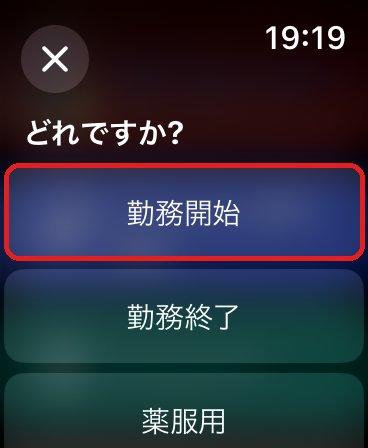
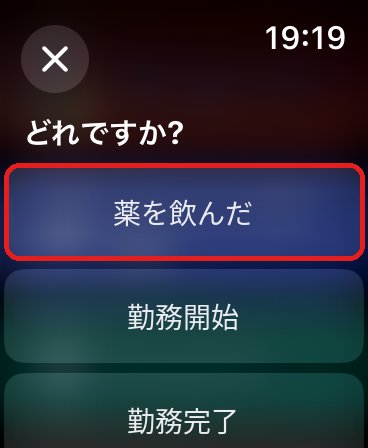
Apple Watch ページ: 「選択肢から記録」を優先表示にし、実物の画面とリンクを反映

Changed region(s): [[0.3288, 0.6562, 0.6576, 0.75], [0.2989, 0.4375, 0.6875, 0.5312], [0.3288, 0.9062, 0.6576, 0.9688]]

diff --git a/timestampApp/jp/tips/watch_record.html b/timestampApp/jp/tips/watch_record.html
@@ -38,17 +38,17 @@
 
       <h2 class="ts-section-title">しくみ</h2>
       <ol class="ts-steps">
-        <li><p>Apple Watch でショートカットを実行し、メモを入力します(またはリストから選びます)。日時とメモが、リマインダーアプリの「時間記録」リストに 1 件ずつ保存されます。</p></li>
+        <li><p>Apple Watch でショートカットを実行し、リストから項目を選びます(またはメモを入力します)。日時とメモが、リマインダーアプリの「時間記録」リストに 1 件ずつ保存されます。</p></li>
         <li><p>iPhone でショートカット「時間記録取込」を実行します。「時間記録」リストの内容が時間記録アプリに取り込まれます。</p></li>
         <li><p>取り込んだリマインダーは「時間記録」リストから自動で削除されます。同じ記録が二重に取り込まれることはありません。</p></li>
       </ol>
       <p class="ts-note">※ 記録の時刻は、取り込んだ時刻ではなく<b>ウォッチでメモを取った時刻</b>になります。</p>
 
       <h2 class="ts-section-title">記録のしかたを選ぶ</h2>
-      <p>ウォッチで記録するショートカットは 2 種類あります。使いやすい方を選んでください。両方入れて使い分けることもできます。</p>
+      <p>ウォッチで記録するショートカットは 2 種類あります。タップするだけで記録できる「選択肢から記録」がオススメです。両方入れて使い分けることもできます。</p>
       <ul>
+        <li><p><b>リストから選ぶ「選択肢から記録」</b><span class="ts-badge">オススメ！</span><br>「薬を飲んだ」「勤務開始」など、よく記録する項目をあらかじめリストにしておき、ウォッチではタップして選ぶだけで記録します。入力の手間がなく、<b>音声入力しにくい場所や手早く記録したい人</b>に向いています。<br><a href="#watch-list"><i class="fa fa-angle-right"></i> 使い方を見る</a></p></li>
         <li><p><b>自由に入力する「時間メモ」</b><br>話しかける(音声入力)か手書きで、その場で好きなメモを入力します。いろいろな内容を記録したい人に向いています。<br><a href="#watch-input"><i class="fa fa-angle-right"></i> 使い方を見る</a></p></li>
-        <li><p><b>リストから選ぶ「リストから時間記録」</b><br>「勤務開始」「運動開始」など、よく記録する項目をあらかじめリストにしておき、ウォッチではタップして選ぶだけで記録します。入力の手間がなく、<b>音声入力しにくい場所や手早く記録したい人</b>に向いています。<br><a href="#watch-list"><i class="fa fa-angle-right"></i> 使い方を見る</a></p></li>
       </ul>
       <p class="ts-note">※ どちらで記録しても、iPhone への取り込み方は同じです。</p>
 
@@ -62,19 +62,27 @@
       </ol>
 
       <h2 class="ts-section-title">ショートカットを入手する</h2>
-      <p>ウォッチで記録するショートカット(使う方、または両方)と、iPhone に取り込むショートカットを入手してください。</p>
+      <p>ウォッチで記録するショートカット(オススメは「選択肢から記録」。両方でも可)と、iPhone に取り込むショートカットを入手してください。</p>
       <ol class="ts-steps">
         <li><p>Apple Watch で記録するショートカット(どちらか、または両方)</p>
-          <p><b>自由に入力する「時間メモ」</b></p>
-          <a class="ts-btn ts-btn-primary" target="_blank" href="https://www.icloud.com/shortcuts/d3e8398633bc4102a7ce642336e39c36"><i class="fa fa-download"></i>ここからショートカットを入手(２回タップ)</a>
-          <p style="margin-top:10px;"><b>リストから選ぶ「リストから時間記録」</b></p>
-          <!-- TODO: 共有リンク未受領 -->
-          <a class="ts-btn ts-btn-primary" target="_blank" href="https://www.icloud.com/shortcuts/xxxx"><i class="fa fa-download"></i>ここからショートカットを入手(２回タップ)</a></li>
+          <p><b>リストから選ぶ「選択肢から記録」</b></p>
+          <a class="ts-btn ts-btn-primary" target="_blank" href="https://www.icloud.com/shortcuts/a863c3543426468ea481bc53db5b3596"><i class="fa fa-download"></i>ここからショートカットを入手(２回タップ)</a>
+          <p style="margin-top:10px;"><b>自由に入力する「時間メモ」</b></p>
+          <a class="ts-btn ts-btn-primary" target="_blank" href="https://www.icloud.com/shortcuts/d3e8398633bc4102a7ce642336e39c36"><i class="fa fa-download"></i>ここからショートカットを入手(２回タップ)</a></li>
         <li><p>iPhone に取り込むショートカット「時間記録取込」</p>
           <a class="ts-btn ts-btn-primary" target="_blank" href="https://www.icloud.com/shortcuts/875050dcb03d43aaa527ba753ffaa925"><i class="fa fa-download"></i>ここからショートカットを入手(２回タップ)</a></li>
         <li><p>最初に実行したときにリマインダーへのアクセスの許可を求められたら、「許可」をタップします。</p></li>
       </ol>
       <p class="ts-note"><a href="./setup.html"><i class="fa fa-question-circle"></i> ショートカット共通の設定手順を見る</a></p>
+
+      <h2 class="ts-section-title" id="watch-list">Apple Watch で記録する(リストから選ぶ)</h2>
+      <p>はじめに、iPhone でリストの中身を自分用に書き換えます。</p>
+      <ol class="ts-steps">
+        <li><img src="../img/watch_sel_edit1.jpg" alt="" loading="lazy"><p>iPhone の「ショートカット」アプリで「選択肢から記録」の「・・・」をタップして編集画面を開きます。</p></li>
+        <li><img src="../img/watch_sel_edit2.jpg" alt="" loading="lazy"><p>「リスト」の項目を、自分がよく記録する内容に書き換えます。最初は「薬を飲んだ・勤務開始・勤務完了」が入っています。「新規項目を追加」や − ボタンで数を増やしたり減らしたりできます。</p></li>
+        <li><img src="../img/watch_sel1.jpg" alt="" loading="lazy" style="max-width:200px;"><p>Apple Watch で「ショートカット」アプリを開き、「選択肢から記録」をタップします。</p></li>
+        <li><img src="../img/watch_sel2.jpg" alt="" loading="lazy" style="max-width:200px;"><p>「どれですか?」とリストが表示されるので、記録したい項目をタップします。ウォッチが振動したら記録完了です。<br>※ 下の項目は Digital Crown を回すか、画面をスワイプして表示します。</p></li>
+      </ol>
 
       <h2 class="ts-section-title" id="watch-input">Apple Watch で記録する(自由に入力)</h2>
       <ol class="ts-steps">
@@ -82,20 +90,10 @@
         <li><img src="../img/watch_run2.jpg" alt="" loading="lazy" style="max-width:200px;"><p>メモの入力画面になります。話しかける(音声入力)か、地球儀ボタンから手書きなどでメモを入力します。</p></li>
         <li><img src="../img/watch_run3.jpg" alt="" loading="lazy" style="max-width:200px;"><p>メモが入ったら、右上の「完了」をタップします。これで記録されます。</p></li>
       </ol>
+      <h2 class="ts-section-title">(便利)文字盤から記録する</h2>
       <p>文字盤にショートカットを置いておくと、もっと手早く記録を始められます。</p>
       <img src="../img/watch_complication.jpg" alt="文字盤のコンプリケーションから時間メモを実行" loading="lazy" style="display:block;width:100%;max-width:420px;height:auto;margin:8px 0 4px;border-radius:6px;">
-      <p class="ts-note">※ 文字盤の「時間メモ」をタップし、「実行」をタップします。文字盤への置き方: 文字盤を長押し →「編集」→ コンプリケーションで「ショートカット」から「時間メモ」を選びます。</p>
-
-      <h2 class="ts-section-title" id="watch-list">Apple Watch で記録する(リストから選ぶ)</h2>
-      <p>はじめに、iPhone でリストの中身を自分用に書き換えます。</p>
-      <!-- TODO: リスト編集画面(手順 2)の画像は未受領 -->
-      <ol class="ts-steps">
-        <li><img src="../img/watch_sel_edit1.jpg" alt="" loading="lazy"><p>iPhone の「ショートカット」アプリで「リストから時間記録」の「・・・」をタップして編集画面を開きます。</p></li>
-        <li><p>「リスト」の項目を、自分がよく記録する内容に書き換えます。最初は「勤務開始・勤務終了・薬服用・運動開始・運動終了」が入っています。行を追加・削除して数を増やしたり減らしたりできます。</p></li>
-        <li><img src="../img/watch_sel1.jpg" alt="" loading="lazy" style="max-width:200px;"><p>Apple Watch で「ショートカット」アプリを開き、「リストから時間記録」をタップします。</p></li>
-        <li><img src="../img/watch_sel2.jpg" alt="" loading="lazy" style="max-width:200px;"><p>「どれですか?」とリストが表示されるので、記録したい項目をタップします。これで記録されます。<br>※ 下の項目は Digital Crown を回すか、画面をスワイプして表示します。</p></li>
-      </ol>
-      <p class="ts-note">※ 文字盤に置く方法は「自由に入力」と同じです。</p>
+      <p class="ts-note">※ 文字盤のショートカット(例:「時間メモ」)をタップし、「実行」をタップします。文字盤への置き方: 文字盤を長押し →「編集」→ コンプリケーションで「ショートカット」から使うショートカットを選びます。「選択肢から記録」も同じように置けます。</p>
 
       <h2 class="ts-section-title">iPhone で取り込む</h2>
       <ol class="ts-steps">
@@ -108,9 +106,9 @@
       <p>毎日決まった時刻に取り込むようにすると、取り込み忘れがなくなります。<br><a href="./reminder.html">時間記録の通知をうけとる</a>の手順 1〜5 と同じようにオートメーション(時刻)を作り、アクションに「ショートカットを実行」→「時間記録取込」を選んでください。</p>
 
       <h2 class="ts-section-title">よくある質問</h2>
-      <p><b>ウォッチにショートカットが表示されない</b><br>iPhone のショートカットアプリで「時間メモ」の「・・・」から詳細(i)を開き、「Apple Watch に表示」をオンにしてください。</p>
+      <p><b>ウォッチにショートカットが表示されない</b><br>iPhone のショートカットアプリで、ウォッチで使うショートカット(「選択肢から記録」「時間メモ」)の「・・・」から詳細(i)を開き、「Apple Watch に表示」をオンにしてください。</p>
       <p><b>リストの名前を変えたい / 間違えた</b><br>リマインダーのリスト名を「時間記録」に戻してください。別の名前にしたい場合は、ウォッチ用のショートカットと「時間記録取込」の両方で、リマインダーのリスト名を書き換えてください。</p>
-      <p><b>リストの項目を変えたい</b><br>iPhone のショートカットアプリで「リストから時間記録」を編集し、リストの項目を書き換えてください。ウォッチにもそのまま反映されます。</p>
+      <p><b>リストの項目を変えたい</b><br>iPhone のショートカットアプリで「選択肢から記録」を編集し、リストの項目を書き換えてください。ウォッチにもそのまま反映されます。</p>
       <p><b>取り込んだリマインダーが消えた</b><br>取り込みが終わったリマインダーは、二重に取り込まないように自動で削除しています。記録は時間記録アプリに残っています。</p>
 
       <div class="ts-footer-nav">

diff --git a/timestampApp/jp/tips.html b/timestampApp/jp/tips.html
@@ -59,7 +59,7 @@
     <div class="ts-card"><div class="ts-card-body">
       <h2 class="ts-card-title"><a href="./tips/watch_record.html">Apple Watch から記録する</a></h2>
       <a href="./tips/watch_record.html"><img class="ts-card-img" src="./img/watch_title.jpg" alt="Apple Watch から記録する"></a>
-      <div class="ts-benefit"><span class="ts-benefit-label">便利ポイント</span><p>iPhone を取り出さなくても、Apple Watch からその場でメモを残せます。<br>記録した時刻はウォッチでメモを取った時刻のまま、あとで iPhone からまとめて時間記録アプリに取り込めます。<br>メモは音声入力・手書きのほか、よく使う項目のリストから選ぶだけでも記録できます。</p></div>
+      <div class="ts-benefit"><span class="ts-benefit-label">便利ポイント</span><p>iPhone を取り出さなくても、Apple Watch からその場でメモを残せます。<br>記録した時刻はウォッチでメモを取った時刻のまま、あとで iPhone からまとめて時間記録アプリに取り込めます。<br>よく使う項目をリストから選ぶだけで記録できます(音声入力・手書きでの自由なメモも可)。</p></div>
       <a class="ts-btn ts-btn-outline" href="./tips/watch_record.html">設定方法を見る <i class="fa fa-angle-right"></i></a>
     </div></div>
     <div class="ts-card"><div class="ts-card-body">
